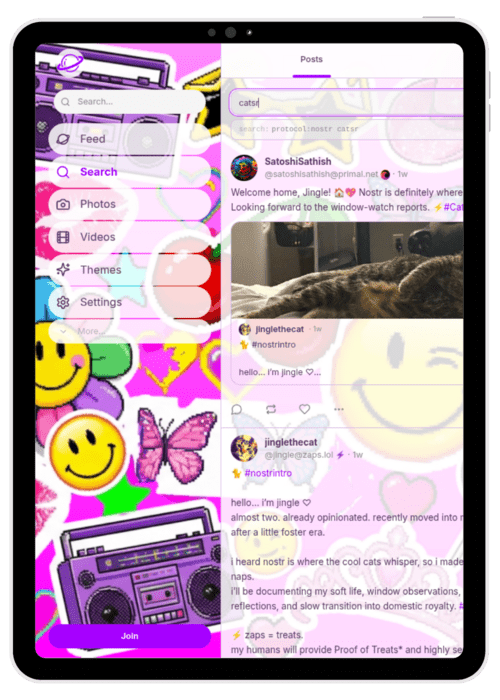
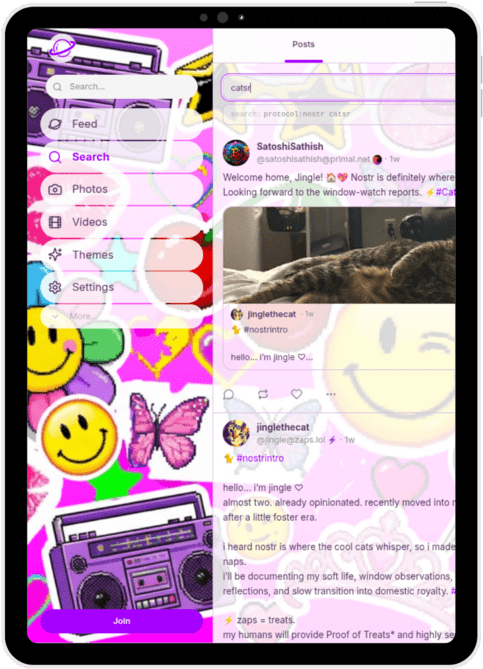
Fix theme carousel: trim image borders, center positioning, larger slides

diff --git a/.vitepress/theme/style.css b/.vitepress/theme/style.css
@@ -2358,19 +2358,16 @@ button.screen-power-btn.power-standby {
 .theme-carousel {
   margin-top: 40px;
   overflow: hidden;
-  width: 100vw;
-  position: relative;
-  left: 50%;
-  transform: translateX(-50%);
+  width: 100%;
   padding: 20px 0;
-  mask-image: linear-gradient(to right, transparent 0%, black 5%, black 95%, transparent 100%);
-  -webkit-mask-image: linear-gradient(to right, transparent 0%, black 5%, black 95%, transparent 100%);
+  mask-image: linear-gradient(to right, transparent 0%, black 4%, black 96%, transparent 100%);
+  -webkit-mask-image: linear-gradient(to right, transparent 0%, black 4%, black 96%, transparent 100%);
 }
 
 .theme-carousel-track {
   display: flex;
   align-items: center;
-  animation: carousel-scroll 60s linear infinite;
+  animation: carousel-scroll 50s linear infinite;
   width: max-content;
 }
 
@@ -2380,10 +2377,10 @@ button.screen-power-btn.power-standby {
 
 .theme-carousel-slide {
   flex-shrink: 0;
-  width: 220px;
+  width: 280px;
   height: auto;
-  border-radius: 16px;
-  margin-right: -24px;
+  border-radius: 20px;
+  margin-right: -30px;
   box-shadow: 0 8px 32px rgba(0, 0, 0, 0.25), 0 2px 8px rgba(0, 0, 0, 0.15);
   transition: transform 0.3s ease, z-index 0s;
   position: relative;
@@ -5521,25 +5518,22 @@ button.screen-power-btn.power-standby {
     mask-image: none;
     -webkit-mask-image: none;
     padding: 20px 24px;
+    scrollbar-width: none;
+  }
+
+  .theme-carousel::-webkit-scrollbar {
+    display: none;
   }
 
   .theme-carousel-track {
     animation: none;
-    gap: 0;
   }
 
   .theme-carousel-slide {
-    width: 160px;
-    margin-right: -16px;
+    width: 180px;
+    margin-right: -18px;
+    border-radius: 14px;
     scroll-snap-align: center;
-  }
-
-  /* Hide scrollbar on mobile */
-  .theme-carousel::-webkit-scrollbar {
-    display: none;
-  }
-  .theme-carousel {
-    scrollbar-width: none;
   }
 
   .mega-emoji { font-size: 48px; }
@@ -5676,7 +5670,8 @@ button.screen-power-btn.power-standby {
   }
 
   .theme-carousel-slide {
-    width: 140px;
-    margin-right: -12px;
+    width: 150px;
+    margin-right: -14px;
+    border-radius: 12px;
   }
 }
